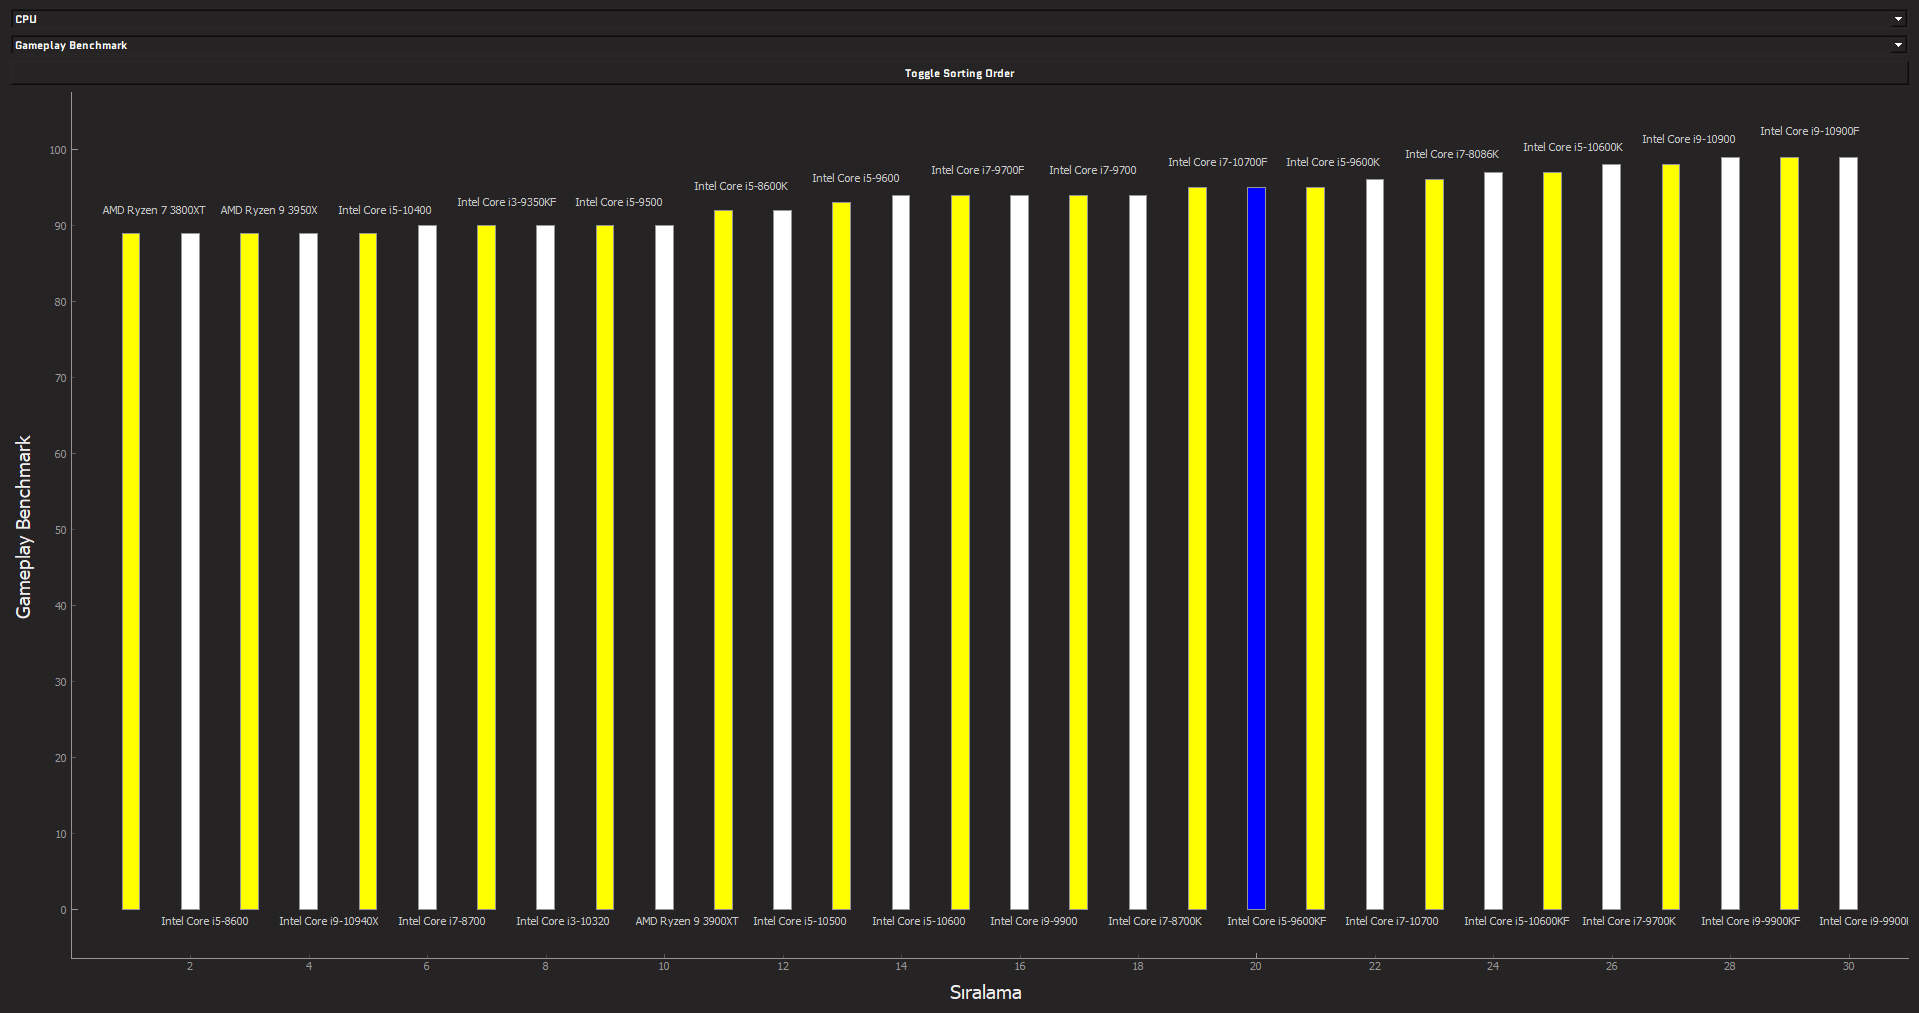
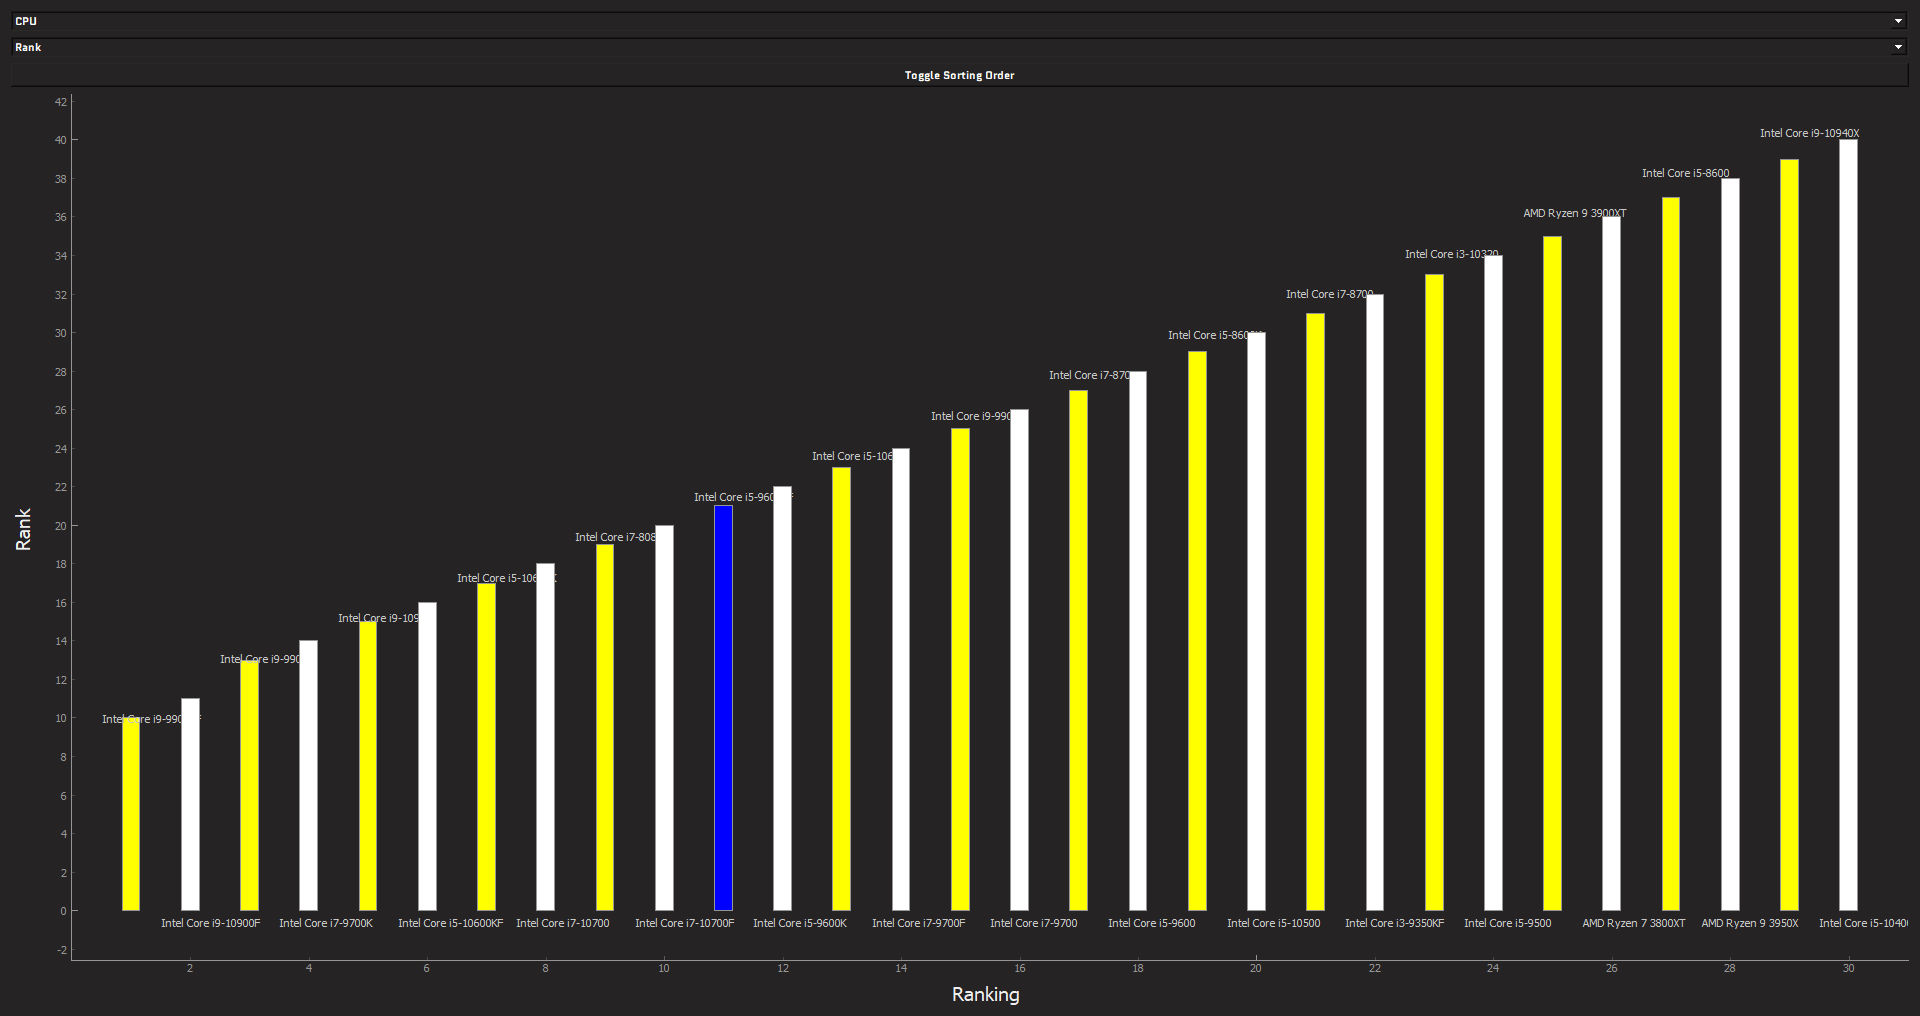
graph.png changed

diff --git a/src/gui/graph.py b/src/gui/graph.py
@@ -156,7 +156,7 @@ class Graph(QWidget):
         label_style = {'color': '#EEE', 'font-size': '14pt'}
         lbl1 = sortindex
         self.plot.setLabel("left", lbl1, **label_style)  
-        self.plot.setLabel("bottom", "Sıralama",**label_style)
+        self.plot.setLabel("bottom", "Ranking",**label_style)
 
         if(sort_number == 1):
             sort_values = sorted(values, key = lambda i: i[sortindex])

diff --git a/src/scripts/builder.py b/src/scripts/builder.py
@@ -30,4 +30,4 @@ def builder(price, percentages, build_type = BuildType.Gaming.value, gpu_brand =
     
     return pcs
 
-builder(1000, None)
+#builder(1000, None)
